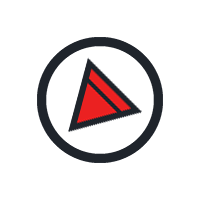
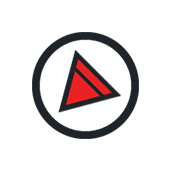
Updated compass and unit tests

diff --git a/src/JUnitTests.java b/src/JUnitTests.java
@@ -2,24 +2,11 @@ import static org.junit.Assert.*;
 import org.junit.Test;
 import java.awt.Color;
 import java.awt.Point;
-import java.awt.Graphics;
 import java.awt.image.BufferedImage;
 import java.util.ArrayList;
 import java.util.Arrays;
-
-import javax.swing.ImageIcon;
-import javax.swing.JButton;
 import javax.swing.JCheckBox;
-import javax.swing.JFileChooser;
-import javax.swing.JFormattedTextField;
-import javax.swing.JFrame;
-import javax.swing.JLabel;
-import javax.swing.JMenuItem;
-import javax.swing.JPanel;
-import javax.swing.JSlider;
-import javax.swing.JTabbedPane;
-import javax.swing.JTextArea;
-import javax.swing.JTextField;
+
 
 public class JUnitTests {
 
@@ -41,6 +28,16 @@ public class JUnitTests {
 	@Test //Incomplete
 	public void testFireBreak(){
 		//Class : FireBreak.java
+
+		ArrayList<Firebreak> breaklist;
+		ArrayList<int[]> region;
+		int minX, maxX, minY, maxY;
+		ArrayList<Boolean> layers;
+		ArrayList<int[]> ids;
+
+		Firebreak fireBreak = new Firebreak();
+
+
 	}
 
 	@Test
@@ -64,7 +61,6 @@ public class JUnitTests {
 	
 		// FireSim Controls:
 		JCheckBox[] filterlist = {new JCheckBox("filterList")};
-		JCheckBox[] filterlistUpdated = {new JCheckBox("filterList"), new JCheckBox("filterName")};
 		int mousePosX = 0;
 		int mousePosY = 0;
 
@@ -93,9 +89,9 @@ public class JUnitTests {
 			testGui.setTallest(tallestString);
 			testGui.setAvg(averageString);
 			testGui.setNumber(numberString);
-			testGui.exportView();
+			//testGui.exportView();
 			testGui.changeTheme(themeNumber);
-			testGui.showChooser();
+			//testGui.showChooser();
 
 			//Getter methods
 			if (filterlist == testGui.getFilterList()) assertEquals(1, 1);
@@ -126,8 +122,6 @@ public class JUnitTests {
 			assertNotNull(testGui.getMenu3());
 			assertNotNull(testGui.getMenu4());
 			assertNotNull(testGui.getMenu5());
-			assertNotNull(testGui.getMenu6());
-			assertNotNull(testGui.getMenu7());
 			assertNotNull(testGui.getCloseRender());
 			assertNotNull(testGui.getChkShowPath());
 			assertNotNull(testGui.getChkShowBurnt());
@@ -170,7 +164,15 @@ public class JUnitTests {
 		boolean released = true;
 		boolean zoom = true;
 		double multiplier = 2.0;
+		double prevMultiplier = 4.0;
+		int tlx = 5;
+		int tly = 5;
+		int newX = 10;
+		int newY = 10;
+		int size = 10;
+		Color speciesColour = new Color(10, 20, 30, 1);
 		BufferedImage fire = new BufferedImage(5, 5, BufferedImage.TYPE_INT_ARGB);
+		BufferedImage burnt = new BufferedImage(5, 5, BufferedImage.TYPE_INT_ARGB);
 		BufferedImage terrain = new BufferedImage(6, 6, BufferedImage.TYPE_INT_ARGB);
 		BufferedImage canopy = new BufferedImage(7, 7, BufferedImage.TYPE_INT_ARGB);
 		BufferedImage undergrowth = new BufferedImage(8, 8, BufferedImage.TYPE_INT_ARGB);
@@ -183,10 +185,19 @@ public class JUnitTests {
 			testImagePanel.setReleased(released);
 			testImagePanel.setZoom(zoom);
 			testImagePanel.setZoomMult(multiplier);
+			testImagePanel.setPrevZoomMult(prevMultiplier);
+			testImagePanel.setPlantsInView(size);
+			testImagePanel.setSpeciesColor(speciesColour);
 			testImagePanel.setFire(fire);
-			testImagePanel.setTerrain(terrain);
-			testImagePanel.setCanopy(canopy);
-			testImagePanel.setUndergrowth(undergrowth);
+			testImagePanel.setBurnt(burnt);
+			testImagePanel.setFireRender(fire);
+			testImagePanel.setBurntRender(burnt);
+			testImagePanel.reset();
+			testImagePanel.resetDetails();
+			testImagePanel.deriveImage();
+			testImagePanel.calculateView();
+			//testImagePanel.displayPlant();
+			//testImagePanel.drawFirebreak(fb);
 
 			int testStartX = testImagePanel.getStartX();
 				assertEquals(testStartX, point.x);
@@ -206,14 +217,34 @@ public class JUnitTests {
 			BufferedImage testUndergrowth = testImagePanel.getUndergrowth();
 				assertEquals(testUndergrowth, undergrowth);
 
-			/*
-			public void deriveImg(Terrain terrain){
-			public void derivePlants(){
-			public void paintComponent(Graphics g){
-			public void exportImage(String nm){
-			public void setShowCanopy(boolean b){
-			public void setShowUnderGrowth(boolean b){
-			*/
+
+				testImagePanel.getTerrain();
+			
+				testImagePanel.getCanopy();
+			
+				testImagePanel.getUndergrowth();
+				testImagePanel.getTLX();
+			
+				testImagePanel.getTLY();
+			
+				testImagePanel.getNewDimX();
+			
+				testImagePanel.getNewDimY();
+			
+				testImagePanel.getDragger();
+			
+				testImagePanel.getPlantsInView();
+			
+				testImagePanel.getShowCanopy();
+			
+				testImagePanel.getShowUndergrowth();
+			
+			assertNotNull(testImagePanel.zoomPlants(tlx, tly, newX, newY));
+			// assertEquals(false,testImagePanel.plantInRect(int x, int y, double rad, int tlx, int tly, int w, int h));
+			// testImagePanel.paintComponent(Graphics g);
+			// testImagePanel.exportImage(String nm);
+			// testImagePanel.setShowCanopy(boolean b);
+			// testImagePanel.setShowUnderGrowth(boolean b);
 		
 	}
 
@@ -348,7 +379,6 @@ public class JUnitTests {
 		Species species3 = new Species(2, "common three", "latin three", colour3);
 		Species[] allSpecies = {species1, species2, species3};
 		int numSpecies = 3;
-		boolean filter = true;
 		
 		PlantLayer plantLayerTest = new PlantLayer();
 			plantLayerTest.setNumSpecies(numSpecies);
@@ -377,12 +407,6 @@ public class JUnitTests {
 			plantLayerTest.setPlantAtLocation(150, 150, 1, 1);
 			int[] testPlantAtLocation3 = plantLayerTest.getPlantAtLocation(50, 50);
 				assertArrayEquals(testPlantAtLocation3, plantAtLocation3);
-			boolean testFilter = plantLayerTest.getFilter();
-				assertEquals(testFilter, filter);
-			plantLayerTest.setFilter(!filter);
-			testFilter = plantLayerTest.getFilter();
-				assertEquals(testFilter, !filter);
-			plantLayerTest.setFilter(!filter);
 			ArrayList<Plant> testPlantList = PlantLayer.getPlantList();
 				assertEquals(testPlantList, plantList);
 			Species[] testAllSpecies = PlantLayer.getAllSpecies();
